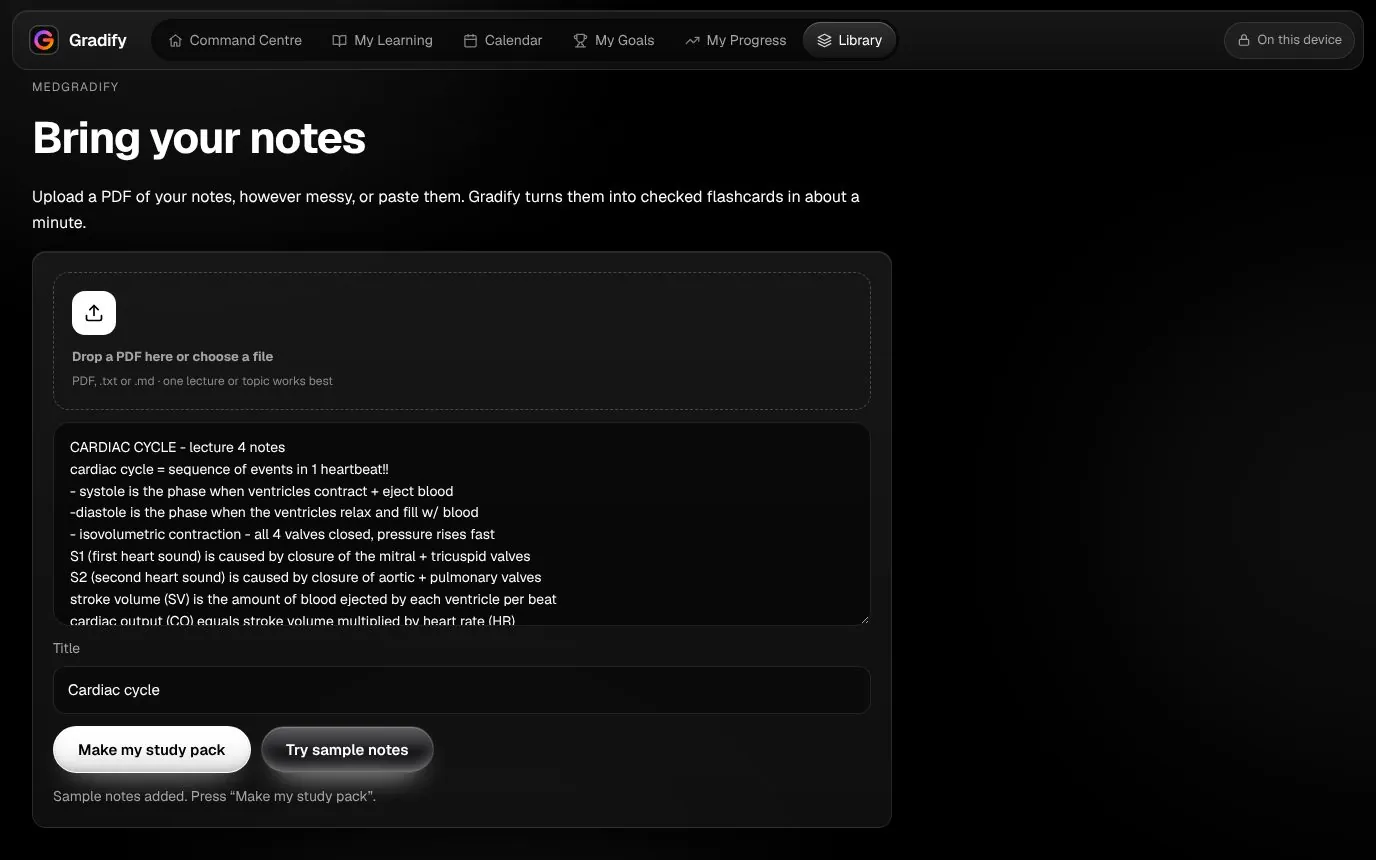
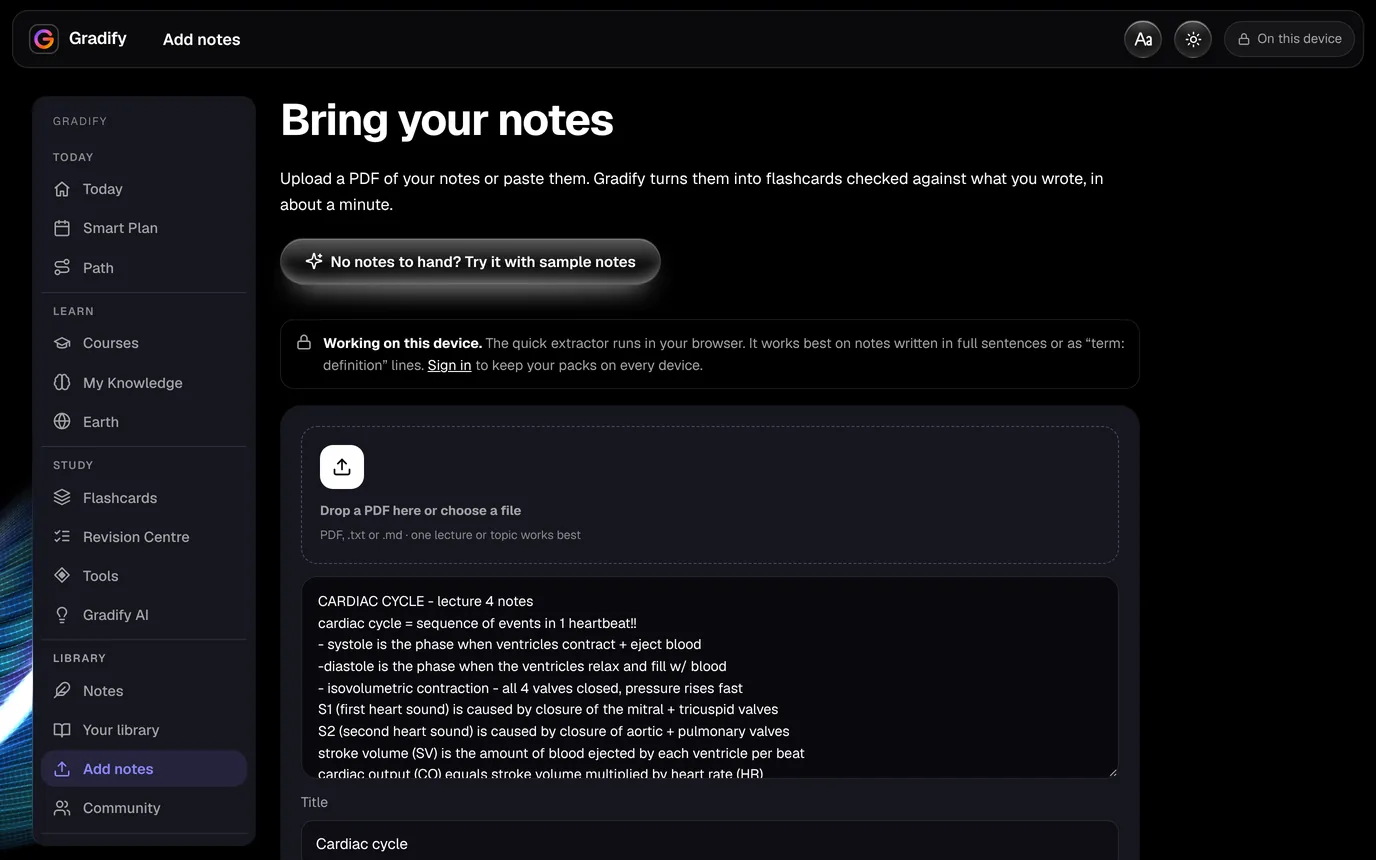
Homepage: re-shoot the three product screenshots from the app as it looks now
notes-upload, notes-deck and notes-study (JPG and WebP, 1376x860, captured at 2x and downsized)
now show the current app: the white/black canvas, the frosted bar, the gleaming next-step card
and the new drawings. The upload screenshot's alt text no longer mentions a button that is
now below the fold. perf-check: all 12 pages within LCP 2500 ms.

Claude-Session: https://claude.ai/code/session_0183yzNBhGPDSs8oSTs9WR1p

diff --git a/index.html b/index.html
@@ -189,7 +189,7 @@
           <span class="how-n">1</span>
           <span class="how-g3d" data-g3d="upload notes file" data-g3d-size="60"></span><h3>Bring your notes</h3>
           <p>Drop in a PDF or paste your notes. One lecture or topic at a time works best. No account needed to try it.</p>
-          <picture><source type="image/webp" srcset="assets/screens/notes-upload.webp"><img src="assets/screens/notes-upload.jpg" width="1376" height="860" loading="lazy" alt="The Bring your notes screen, with notes on the cardiac cycle pasted in and a Make my study pack button."></picture>
+          <picture><source type="image/webp" srcset="assets/screens/notes-upload.webp"><img src="assets/screens/notes-upload.jpg" width="1376" height="860" loading="lazy" alt="The Bring your notes screen, with notes on the cardiac cycle pasted in, ready to become a study pack."></picture>
         </li>
         <li class="how-step glass">
           <span class="how-n">2</span>
